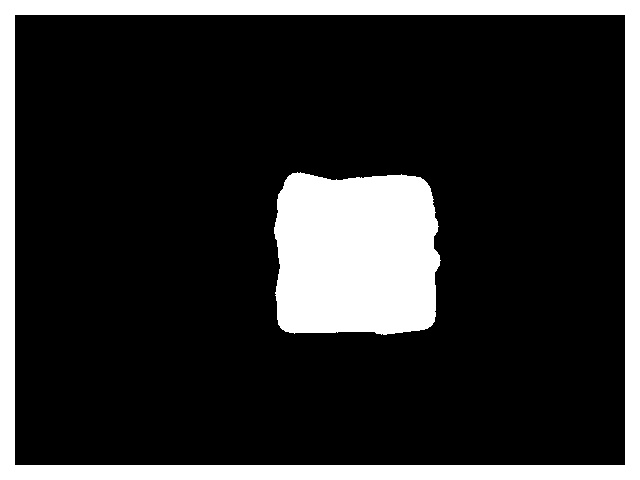
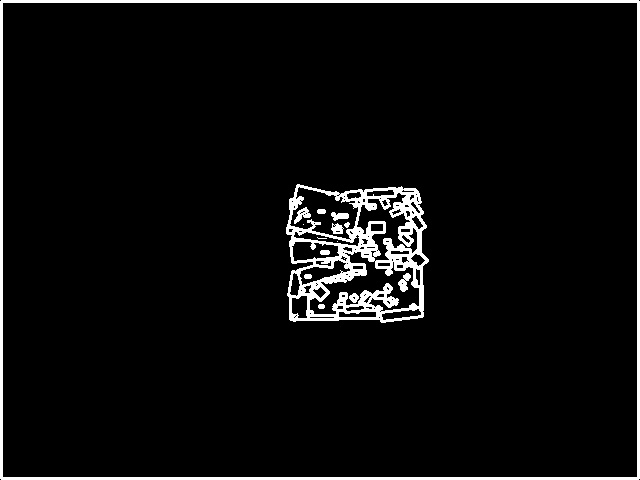
struggling with outer bound contour

Changed region(s): [[0.0, 0.0, 1.0, 1.0], [0.4062, 0.3438, 0.6875, 0.7188]]

diff --git a/src/cell.py b/src/cell.py
@@ -21,15 +21,16 @@ def mask(img):
   contours, hierarchy = cv2.findContours(thresh,cv2.RETR_TREE,cv2.CHAIN_APPROX_SIMPLE)
   dest = np.zeros(thresh.shape, np.uint8)
   for cnt in contours:
-    rect  = cv2.minAreaRect(cnt)
-    points = cv2.cv.BoxPoints(rect)
-    points  = np.int0(np.around(points))
-    cv2.drawContours(dest, [cnt],0,(0,255,0),2)
-    cv2.polylines(dest, [points], True,( 255,255,255), 25 )
-  x = cv2.cvtColor(dest, cv2.COLOR_GRAY2RGB)
-  cv2.imshow('contour-highlighted image.jpg', x)
-  cv2.imwrite("../images/bound.jpg", x)
-  cv2.imshow('edges', thresh)
+    print cnt
+    if cnt.any() >= 1:
+      rect  = cv2.minAreaRect(cnt)
+      points = cv2.cv.BoxPoints(rect)
+      points  = np.int0(np.around(points))
+      cv2.drawContours(dest, [cnt],0,(0,255,0),2)
+      cv2.polylines(dest, [points], True,( 255,255,255), 2 )
+    cv2.imshow('contour-highlighted image.jpg', dest)
+    cv2.imwrite("../images/bound.jpg", dest)
+    cv2.imshow('edges', thresh)
 if __name__ == '__main__':
   mask(frame)	
   if cv2.waitKey(0) & 0xff == 27:  #escape
